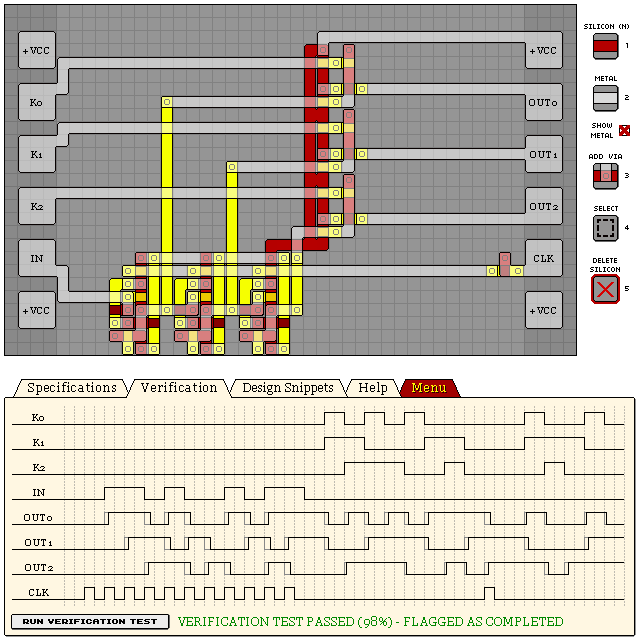
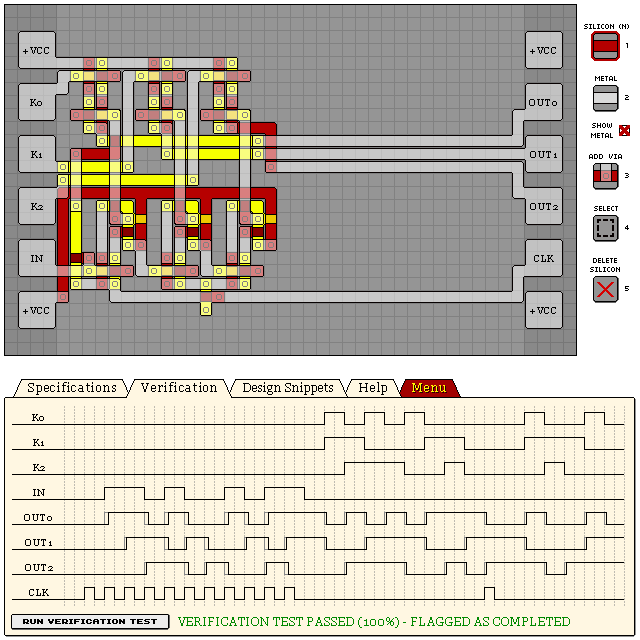
100% - X901 - RADIO MESSAGE STREAM DECODER

diff --git a/levels/17 X901 RADIO MESSAGE STREAM DECODER.md b/levels/17 X901 RADIO MESSAGE STREAM DECODER.md
@@ -1,23 +1,23 @@
 # X901 - RADIO MESSAGE STREAM DECODER
 
-- Verification: Passed (98%)
-- Design Score: 457
+- Verification: Passed (100%)
+- Design Score: 468
 
 ```
[13 lines of base64/hex data omitted]
-/x1FLCG13O86WeWREUk4fgFzv8wo
[13 lines of base64/hex data omitted]
+SX/9AJ5IynY=
 ```
 
 ![17 X901 RADIO MESSAGE STREAM DECODER](./assets/17.png)
